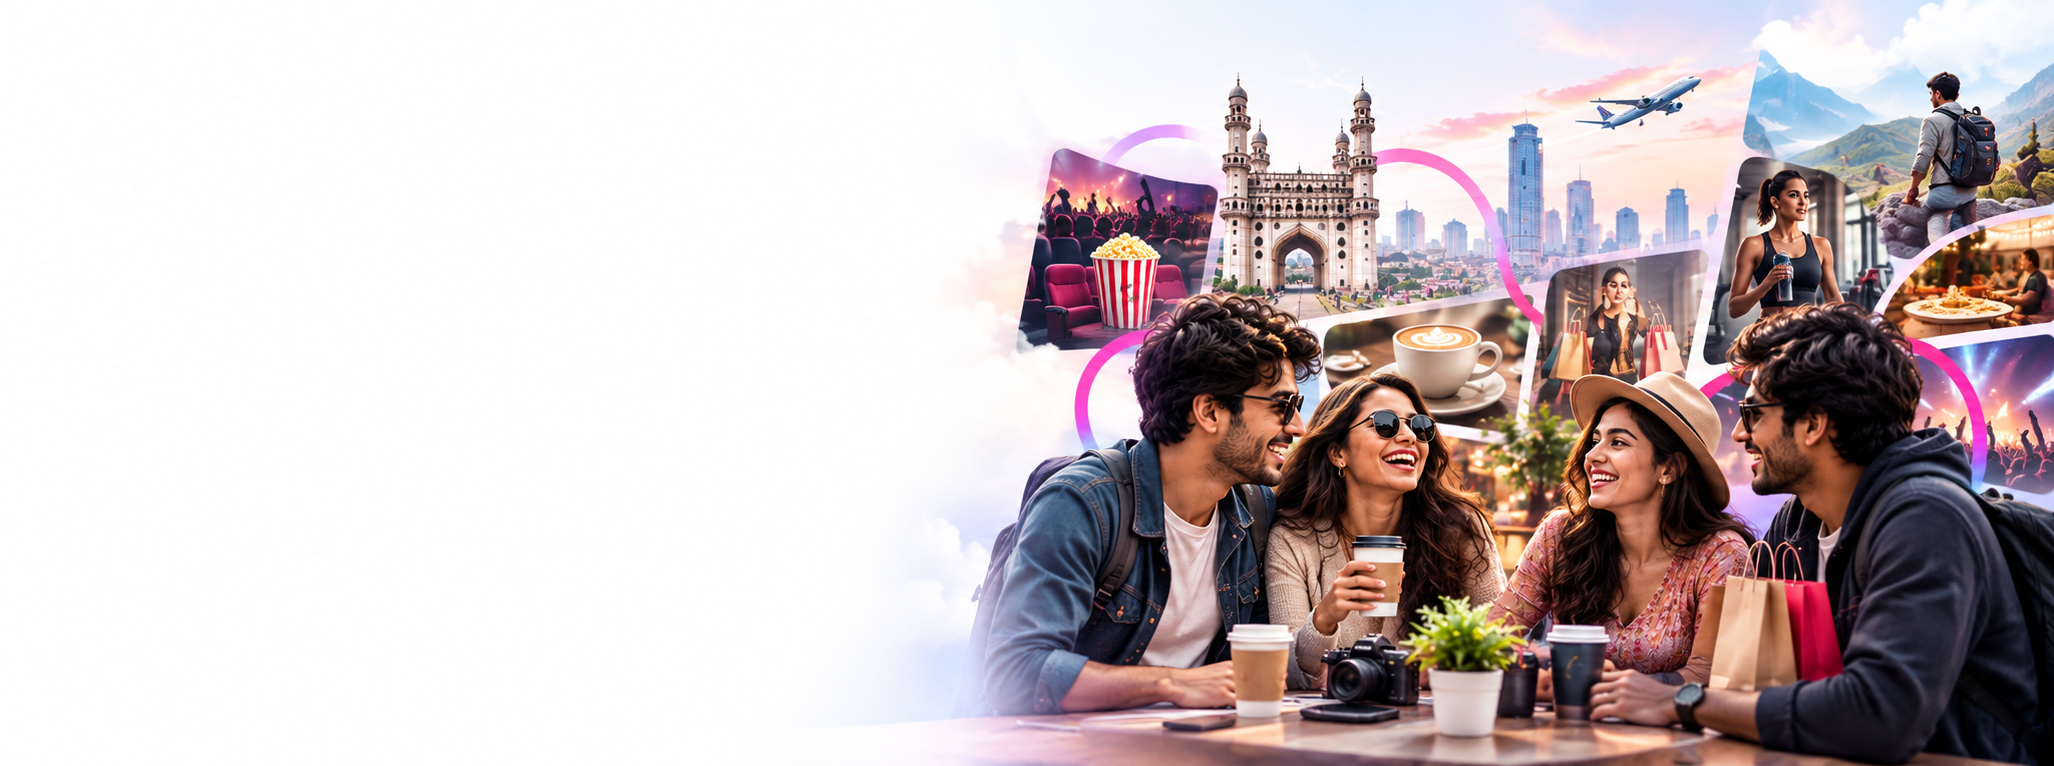
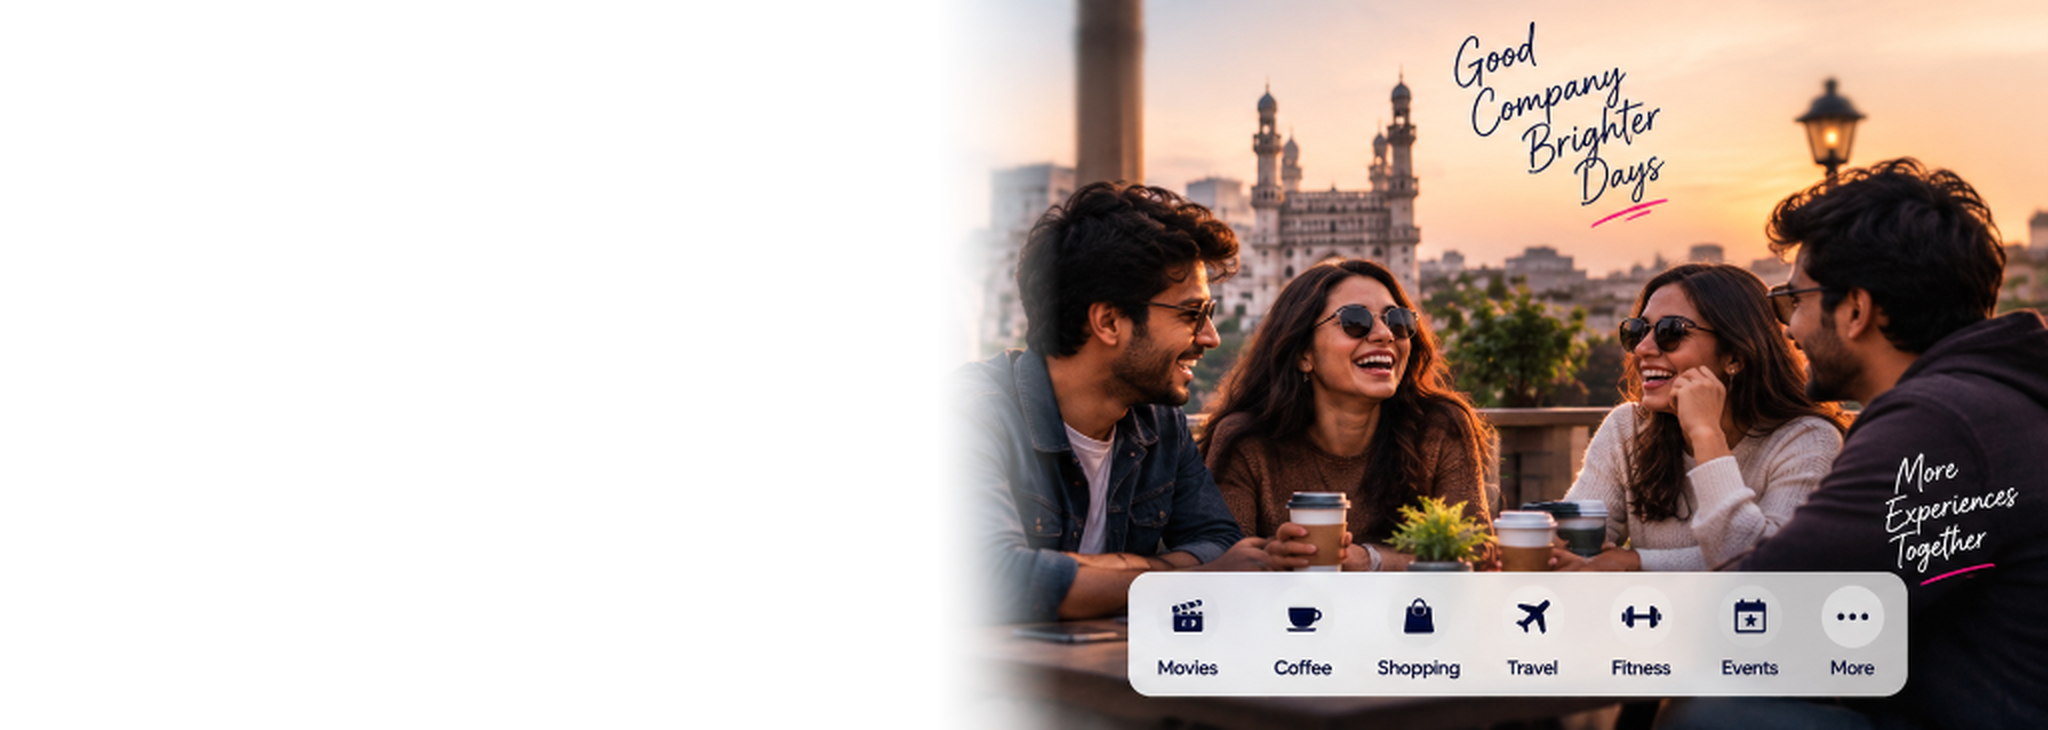
Update hero section to panoramic friends view with Charminar, calligraphy and quick services dock

diff --git a/components/Hero.tsx b/components/Hero.tsx
@@ -1,85 +1,124 @@
 "use client";
 
-import { motion } from "framer-motion";
-import { Search, UserPlus, Check, Calendar, Users, Sparkles } from "lucide-react";
+import {
+  Search,
+  UserPlus,
+  Check,
+  Calendar,
+  Users,
+  Film,
+  Coffee,
+  ShoppingBag,
+  Plane,
+  Dumbbell,
+  CalendarDays,
+  MoreHorizontal,
+} from "lucide-react";
+
+const QUICK_SERVICES = [
+  { id: "movies", label: "Movies", icon: Film },
+  { id: "coffee", label: "Coffee", icon: Coffee },
+  { id: "shopping", label: "Shopping", icon: ShoppingBag },
+  { id: "travel", label: "Travel", icon: Plane },
+  { id: "fitness", label: "Fitness", icon: Dumbbell },
+  { id: "events", label: "Events", icon: CalendarDays },
+  { id: "more", label: "More", icon: MoreHorizontal },
+];
 
 export default function Hero({
   onFind,
   onBecome,
+  onOpenComingSoon,
 }: {
   onFind: () => void;
   onBecome: () => void;
+  onOpenComingSoon?: (feature: string) => void;
 }) {
   return (
-    <section id="home" className="relative overflow-hidden bg-white pt-6 pb-12 sm:pt-10 sm:pb-16 lg:pt-12 lg:pb-20">
+    <section
+      id="home"
+      className="relative overflow-hidden bg-white pt-6 pb-10 sm:pt-8 sm:pb-14 lg:py-10"
+    >
       <div className="mx-auto max-w-7xl px-4 sm:px-6 lg:px-8">
-        <div className="relative grid items-center gap-8 lg:grid-cols-[1.1fr_1fr] lg:gap-6">
+        <div className="relative min-h-[460px] lg:min-h-[480px] xl:min-h-[510px] flex items-center">
           
+          {/* Desktop Panoramic Background (Friends + Charminar + Calligraphy) */}
+          <div className="absolute inset-0 hidden lg:block overflow-hidden pointer-events-none select-none">
+            <img
+              src="/images/hero-banner.png"
+              alt="Friends hanging out together over coffee with Charminar view"
+              className="absolute right-0 top-0 h-full w-full object-cover object-right"
+            />
+          </div>
+
           {/* Left Hero Content */}
-          <div className="z-10 pt-4 lg:pt-0 max-w-xl">
+          <div className="relative z-10 max-w-xl py-4 lg:py-6">
             {/* Eyebrow badge */}
-            <div className="flex items-center gap-2 mb-4">
-              <span className="text-[0.7rem] sm:text-xs font-bold uppercase tracking-[0.2em] text-slate-500">
+            <div className="flex items-center gap-2 mb-3">
+              <span className="h-[2.5px] w-6 bg-[#D91A60] rounded-full inline-block" />
+              <span className="text-[0.7rem] sm:text-xs font-bold uppercase tracking-[0.22em] text-slate-500">
                 REAL PEOPLE. REAL CONNECTIONS.
               </span>
             </div>
 
             {/* Main Headline */}
-            <h1 className="font-display text-4xl sm:text-5xl lg:text-[3.6rem] font-extrabold leading-[1.08] tracking-tight text-slate-900">
+            <h1 className="font-display text-4xl sm:text-5xl lg:text-[3.4rem] xl:text-[3.75rem] font-extrabold leading-[1.08] tracking-tight text-slate-900">
               Find a CoFriend. <br />
               <span className="text-[#D91A60]">Share the Moment.</span>
             </h1>
 
             {/* Sub-headline */}
-            <div className="mt-5 space-y-2">
-              <p className="font-semibold text-slate-800 text-base sm:text-lg">
+            <div className="mt-4 sm:mt-5 space-y-2">
+              <p className="font-bold text-slate-800 text-base sm:text-lg">
                 Life feels better with the right company.
               </p>
               <p className="text-slate-500 text-xs sm:text-sm leading-relaxed max-w-lg">
                 Find verified CoFriends for coffee, movies, shopping, travel, fitness, events,
-                study sessions and everyday experiences. Choose who you&apos;d like spend time with,
+                study sessions and everyday experiences. Choose who you&apos;d like to spend time with,
                 select a service and book a time that works for you.
               </p>
             </div>
 
             {/* CTA Buttons */}
-            <div className="mt-8 flex flex-wrap items-center gap-3.5">
+            <div className="mt-7 sm:mt-8 flex flex-wrap items-center gap-3.5">
+              {/* Find a CoFriend CTA */}
               <button
                 onClick={onFind}
-                className="btn-cofriend-gradient rounded-full px-6 sm:px-7 py-3.5 text-xs sm:text-sm font-bold text-white shadow-lg shadow-pink-500/25 flex items-center gap-2.5 transition-transform hover:scale-105 active:scale-95 cursor-pointer"
+                className="rounded-full bg-gradient-to-r from-purple-600 via-fuchsia-600 to-pink-600 hover:from-purple-700 hover:to-pink-700 text-white px-6 sm:px-7 py-3.5 text-xs sm:text-sm font-bold shadow-lg shadow-pink-500/25 flex items-center gap-2.5 transition-all hover:scale-[1.02] active:scale-95 cursor-pointer"
               >
                 <Search size={16} />
                 <span>Find a CoFriend</span>
                 <span className="text-white/80">➔</span>
               </button>
 
+              {/* Become a CoFriend CTA */}
               <button
                 onClick={onBecome}
-                className="rounded-full border border-purple-200 bg-white px-5 sm:px-6 py-3.5 text-xs sm:text-sm font-bold text-purple-700 hover:border-purple-300 hover:bg-purple-50/70 shadow-sm flex items-center gap-2.5 transition-all active:scale-95 cursor-pointer"
+                className="rounded-full border-2 border-purple-600 bg-white hover:bg-purple-50/80 px-6 sm:px-7 py-3.5 text-xs sm:text-sm font-bold text-purple-700 shadow-sm flex items-center gap-2.5 transition-all hover:scale-[1.02] active:scale-95 cursor-pointer"
               >
                 <UserPlus size={16} className="text-purple-600" />
                 <span>Become a CoFriend</span>
-                <span className="text-purple-400">➔</span>
+                <span className="text-purple-600">➔</span>
               </button>
             </div>
 
             {/* Trust Badges */}
-            <div className="mt-9 flex flex-wrap items-center gap-x-6 gap-y-3 pt-2">
-              <div className="flex items-center gap-2 text-xs font-semibold text-slate-700">
+            <div className="mt-8 sm:mt-9 flex flex-wrap items-center gap-x-6 gap-y-3 pt-1">
+              <div className="flex items-center gap-2 text-xs font-semibold text-slate-800">
                 <span className="grid h-5 w-5 place-items-center rounded-full bg-pink-100 text-[#D91A60]">
                   <Check size={12} strokeWidth={3} />
                 </span>
                 <span>Verified Profiles</span>
               </div>
 
-              <div className="flex items-center gap-2 text-xs font-semibold text-slate-700">
+              <div className="flex items-center gap-2 text-xs font-semibold text-slate-800">
                 <span className="grid h-5 w-5 place-items-center rounded-full bg-pink-100 text-[#D91A60]">
                   <Calendar size={12} strokeWidth={2.5} />
                 </span>
                 <span>Flexible Bookings</span>
               </div>
 
-              <div className="flex items-center gap-2 text-xs font-semibold text-slate-700">
+              <div className="flex items-center gap-2 text-xs font-semibold text-slate-800">
                 <span className="grid h-5 w-5 place-items-center rounded-full bg-pink-100 text-[#D91A60]">
                   <Users size={12} strokeWidth={2.5} />
                 </span>
@@ -88,35 +127,56 @@ export default function Hero({
             </div>
           </div>
 
-          {/* Right Hero Graphic & Calligraphy */}
-          <div className="relative w-full overflow-hidden lg:overflow-visible">
-            {/* Main Hero Composite Image */}
-            <div className="relative w-full rounded-2xl overflow-hidden shadow-sm">
-              <img
-                src="/images/hero-banner.png"
-                alt="Friends hanging out together over coffee with city and travel experiences"
-                className="w-full h-auto object-cover max-h-[520px] rounded-2xl"
-              />
-
-              {/* Top Calligraphy Badge */}
-              <div className="absolute top-4 right-4 sm:top-6 sm:right-8 bg-white/80 backdrop-blur-md rounded-2xl px-4 py-2 shadow-lg border border-white/60 pointer-events-none transform rotate-[-2deg]">
-                <p className="font-script text-2xl sm:text-3xl font-bold text-slate-800 leading-tight text-center">
-                  Good Company <br />
-                  <span className="text-[#D91A60]">Brighter Days</span>
-                </p>
-              </div>
-
-              {/* Bottom Right Calligraphy Badge */}
-              <div className="absolute bottom-4 right-4 sm:bottom-6 sm:right-6 bg-white/85 backdrop-blur-md rounded-2xl px-4 py-2 shadow-lg border border-white/60 pointer-events-none transform rotate-[2deg]">
-                <p className="font-script text-xl sm:text-2xl font-bold text-slate-800 flex items-center gap-1.5">
-                  <span>More Experiences Together</span>
-                  <span className="text-[#D91A60]">♥</span>
-                </p>
-              </div>
-            </div>
+          {/* Desktop Floating Quick Services Dock */}
+          <div className="hidden lg:flex absolute bottom-3 right-4 xl:right-10 z-20 bg-white/90 backdrop-blur-md rounded-2xl shadow-xl border border-white/80 px-6 py-2.5 items-center gap-5 xl:gap-7">
+            {QUICK_SERVICES.map((service) => (
+              <button
+                key={service.id}
+                onClick={() => onOpenComingSoon?.(`${service.label} service booking`)}
+                className="group flex flex-col items-center gap-1 transition-all hover:scale-110 active:scale-95 cursor-pointer px-1 py-1"
+                title={`${service.label} - Coming Soon`}
+              >
+                <div className="text-slate-800 group-hover:text-[#D91A60] transition-colors">
+                  <service.icon size={18} strokeWidth={2.2} />
+                </div>
+                <span className="text-[10.5px] font-semibold text-slate-700 group-hover:text-[#D91A60] transition-colors">
+                  {service.label}
+                </span>
+              </button>
+            ))}
           </div>
 
         </div>
+
+        {/* Mobile / Tablet Hero Banner & Dock View */}
+        <div className="mt-8 block lg:hidden">
+          <div className="relative rounded-2xl overflow-hidden shadow-md">
+            <img
+              src="/images/hero-banner.png"
+              alt="Friends hanging out together over coffee with Charminar view"
+              className="w-full h-auto object-cover max-h-[360px]"
+            />
+          </div>
+
+          {/* Mobile Quick Services Dock */}
+          <div className="mt-4 flex items-center justify-between gap-1 overflow-x-auto bg-slate-50/90 rounded-2xl p-3 border border-slate-100 shadow-sm scrollbar-none">
+            {QUICK_SERVICES.map((service) => (
+              <button
+                key={service.id}
+                onClick={() => onOpenComingSoon?.(`${service.label} service booking`)}
+                className="flex flex-col items-center gap-1 min-w-[50px] p-1.5 rounded-xl hover:bg-white transition-colors cursor-pointer"
+              >
+                <div className="text-slate-800">
+                  <service.icon size={18} strokeWidth={2.2} />
+                </div>
+                <span className="text-[10px] font-semibold text-slate-700">
+                  {service.label}
+                </span>
+              </button>
+            ))}
+          </div>
+        </div>
+
       </div>
     </section>
   );

diff --git a/components/TopBar.tsx b/components/TopBar.tsx
@@ -34,14 +34,15 @@ export default function TopBar() {
         </div>
 
         {/* Center tag */}
-        <div className="text-center font-medium text-blue-50 text-[0.72rem] sm:text-[0.78rem] truncate">
-          India&apos;s Most Trusted Social &amp; Lifestyle Rental Support Services Marketplace
+        <div className="text-center font-medium text-blue-50 text-[0.72rem] sm:text-[0.78rem] truncate flex items-center gap-2">
+          <span className="text-blue-300/60 hidden lg:inline">|</span>
+          <span>India&apos;s Most Trusted Social &amp; Lifestyle Rental Support Services Marketplace</span>
         </div>
 
         {/* Right tag */}
         <div className="hidden lg:flex items-center gap-1.5 text-blue-100 shrink-0 font-medium">
           <Users size={14} className="text-blue-200" />
-          <span>Real People. Real Connections.</span>
+          <span>Book a Friend for Coffee, Movies, Shopping &amp; More &rsaquo;</span>
         </div>
       </div>
     </div>

diff --git a/app/page.tsx b/app/page.tsx
@@ -75,6 +75,7 @@ export default function HomePage() {
         <Hero
           onFind={() => scrollToId("cofriends")}
           onBecome={() => openComingSoon("Partner Registration & Profile Creation")}
+          onOpenComingSoon={(feature) => openComingSoon(feature)}
         />
 
         {/* 2. Explore Our Services */}
